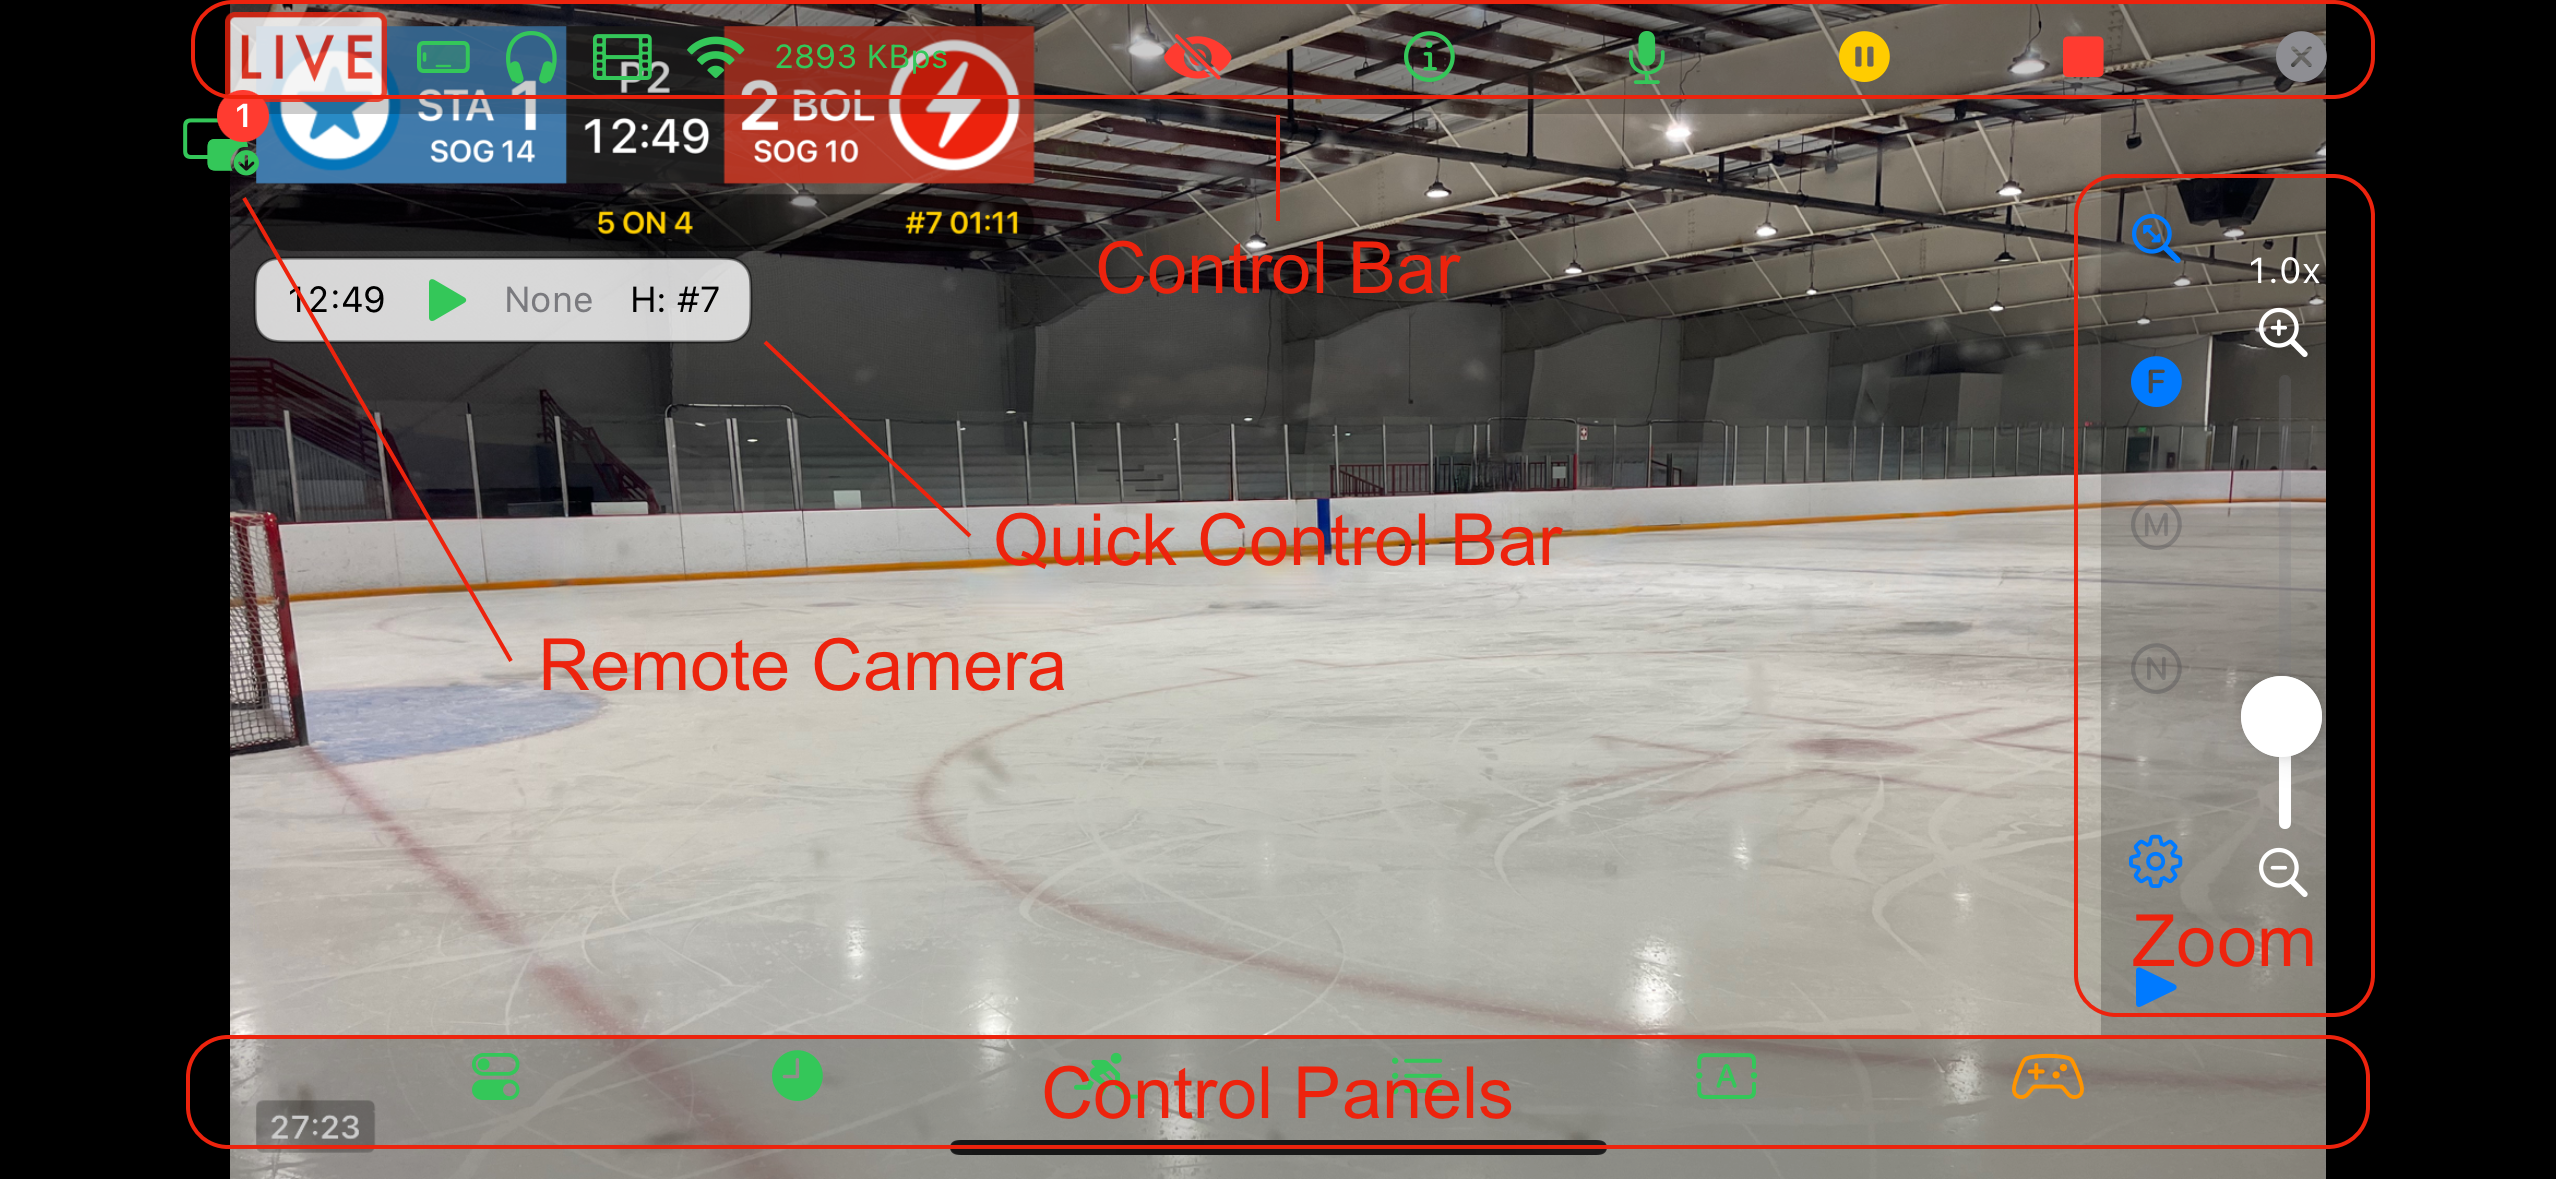
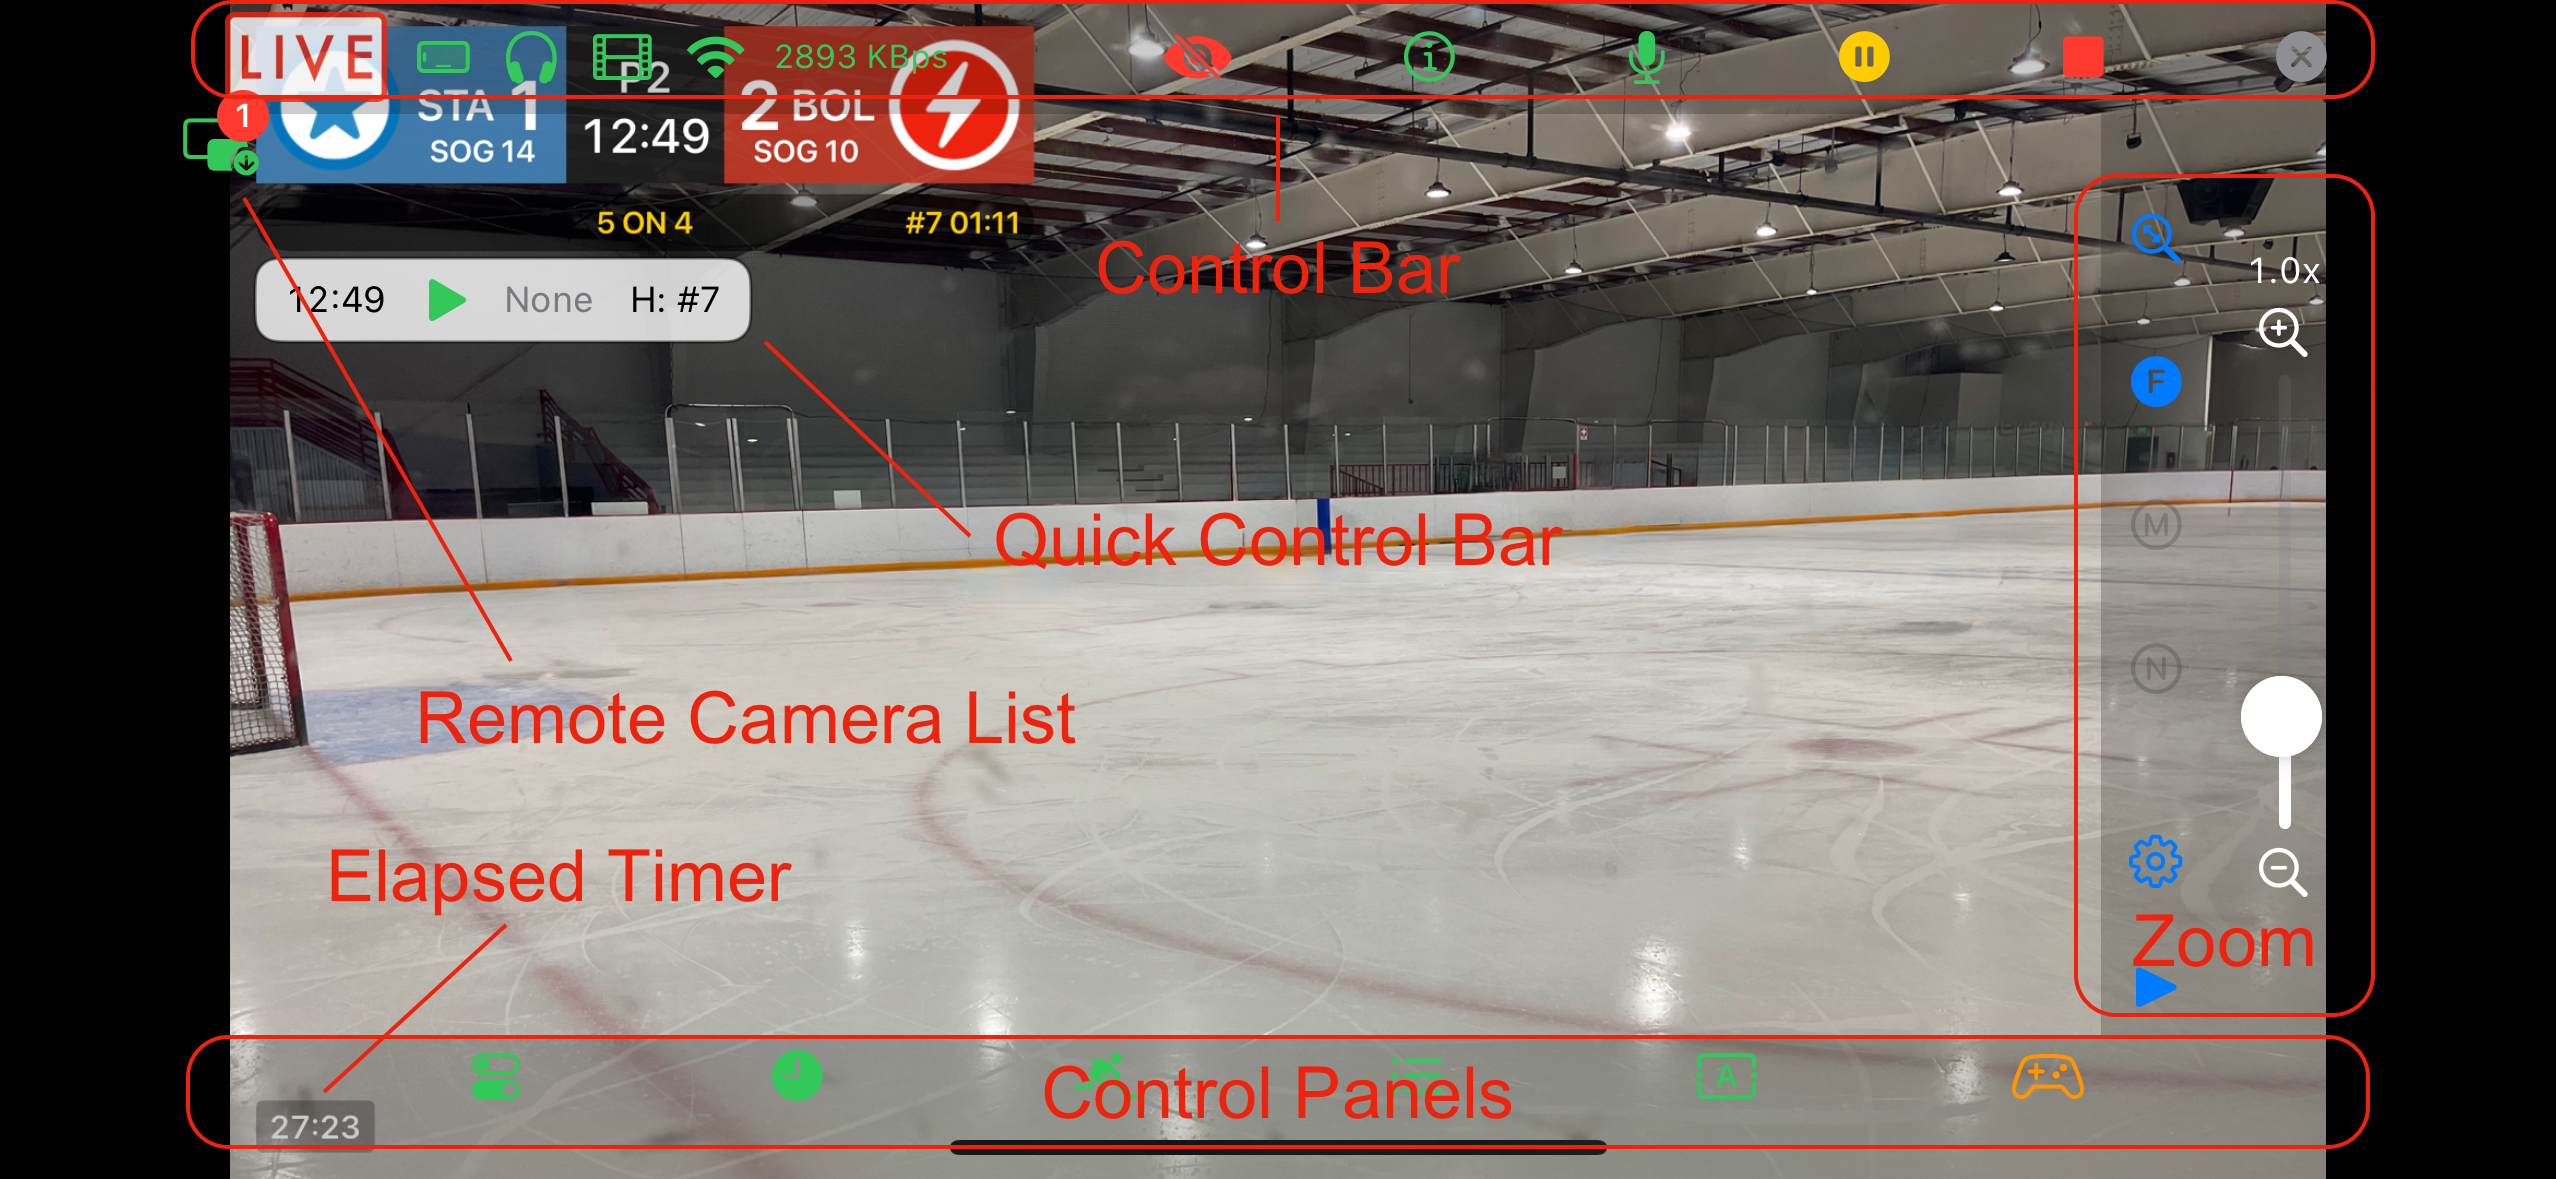
Update description of Broadcast Camera view

Changed region(s): [[0.1545, 0.5496, 0.4327, 0.6412], [0.1236, 0.7023, 0.3091, 0.7634]]

diff --git a/myteamlive/camera-view.md b/myteamlive/camera-view.md
@@ -43,10 +43,16 @@ Open panels along the bottom edge to manage:
 
 ## Camera Sources
 
-When [Remote Cameras](remote-camera) are configured, a column of camera thumbnails appears next to the Quick Control Bar. Tap a thumbnail to switch the broadcast to that camera. The active source fills the main preview; the column shows all other available slots.
+When [Remote Cameras](remote-camera) are configured, a Camera List icon appears. Tap it to show or hide the list of remote cameras.
+Tap a camera thumbnail to switch the broadcast to that camera.
 
 <p style="text-align:center;">
   <img src="/images/CameraViewPiP.png" alt="Select Live Stream Step" style="max-width:100%;height:auto;border-radius:12px;">
 </p>
 
-Tap the expand icon next to a thumbnail to enlarge that slot to a full-column preview (3× size). A disconnected slot is shown with a slash icon and can't be selected until the device connects.
+Tap the PiP icon next to a thumbnail to view a larger preview (3× size).
+A disconnected camera is shown with a slash icon and can't be selected until the device connects.
+
+## Elapsed Timer
+
+Use the Control Options panel to show or hide an elapsed stream timer for an exact timestamp on the stream. There is an option to view it only on the Broadcaster Camera View or to also send it out on the stream.